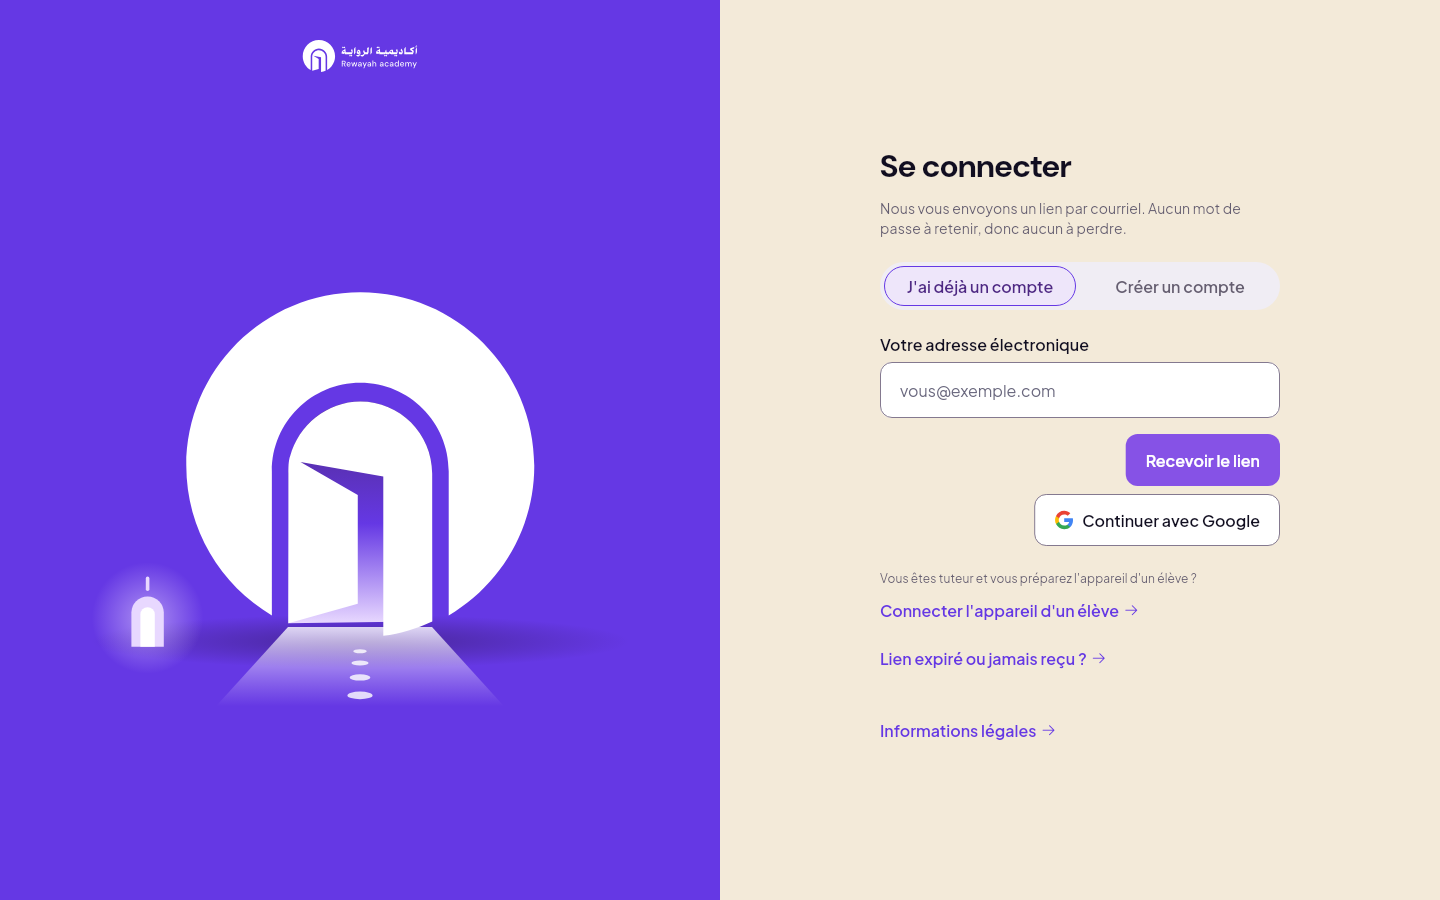
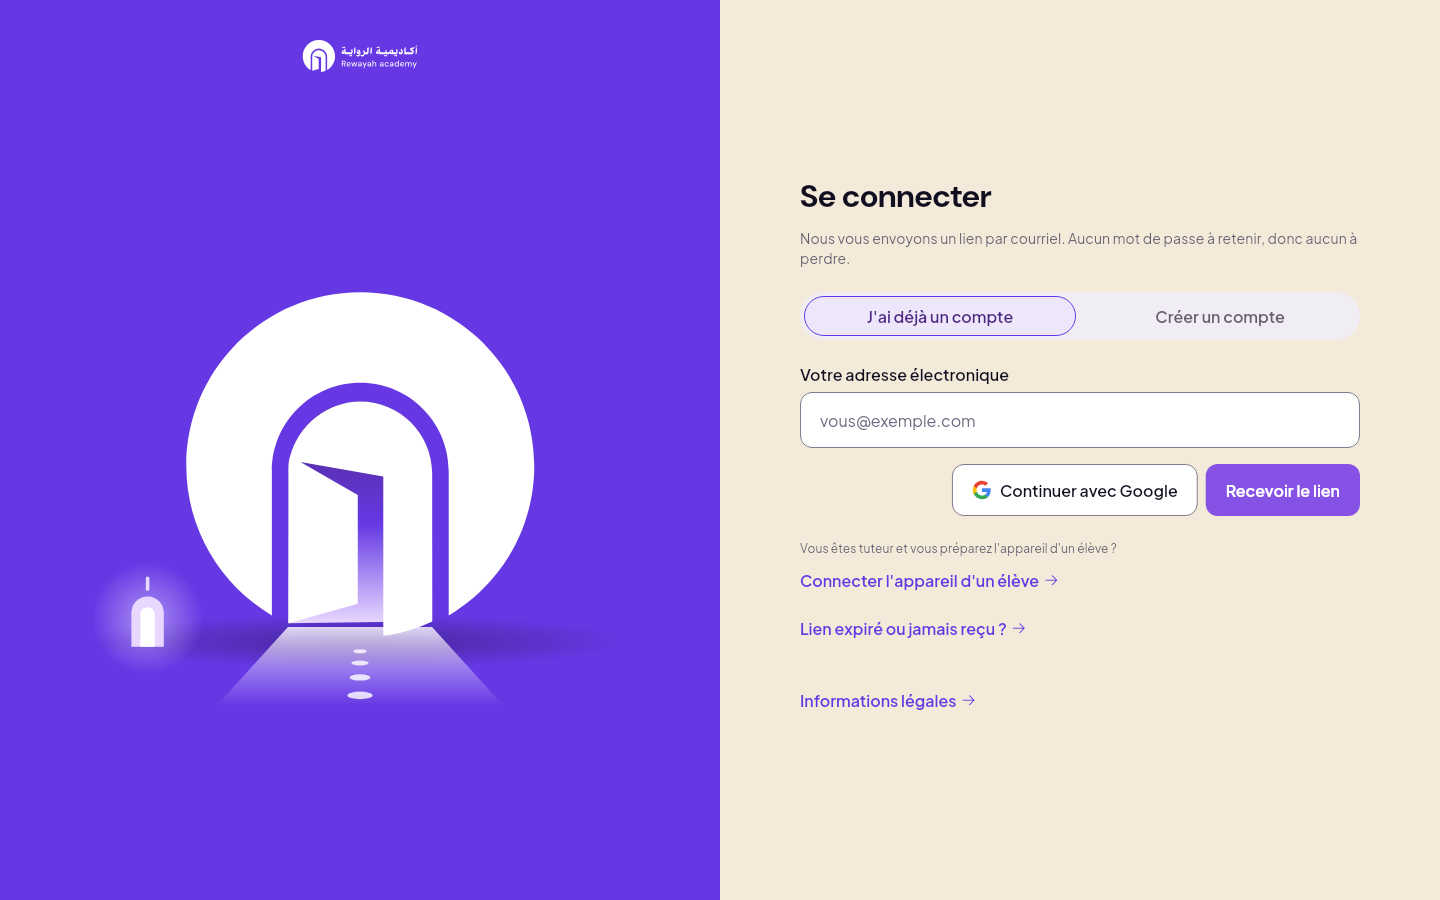
Entrée PR 1 : les deux actions sur une rangée au bord de fin (bureau)
Correctif du directeur (capture 1440 refusée). Sur ordinateur, « Continuer
avec Google » puis « Recevoir le lien » sur une rangée au bord de fin,
8 points entre eux, par RangeeActions (option pileePleineLargeur) ; largeur
de lecture 560 pour que la rangée tienne dans les deux modes ; à texte
agrandi, pile pleine largeur. Téléphone inchangé. Capture 1440 refaite.

Claude-Session: https://claude.ai/code/session_011CALX9teGtqrquq7vN8ZpH

Changed region(s): [[0.5312, 0.1556, 0.9688, 0.7467], [0.5625, 0.7778, 0.7188, 0.84]]

diff --git a/test/features/connexion/entree_rendu_test.dart b/test/features/connexion/entree_rendu_test.dart
@@ -71,7 +71,7 @@ void main() {
       const Size(320, 640),
       const Size(1440, 900),
     ]) {
-      for (final double texte in <double>[1, 2]) {
+      for (final double texte in <double>[1, 1.5, 2]) {
         for (final ThemeMode theme in <ThemeMode>[
           ThemeMode.light,
           ThemeMode.dark,
@@ -136,6 +136,27 @@ void main() {
                 } else {
                   expect(bouton.left, moreOrLessEquals(champ2.left));
                 }
+                // Connexion : Google puis le lien sur une rangee au bord de
+                // fin ; si elle ne tient pas (police de test tres large,
+                // texte agrandi), empilees pleine largeur.
+                final Finder google = find.widgetWithText(
+                  ActionPrincipale,
+                  t.connexion.avecGoogle,
+                );
+                if (google.evaluate().isNotEmpty) {
+                  final Rect g = tester.getRect(google);
+                  if (g.top == bouton.top) {
+                    expect(g.height, bouton.height);
+                    if (sens == TextDirection.ltr) {
+                      expect(bouton.left - g.right, moreOrLessEquals(8));
+                    } else {
+                      expect(g.left - bouton.right, moreOrLessEquals(8));
+                    }
+                  } else {
+                    expect(g.width, moreOrLessEquals(champ2.width));
+                    expect(bouton.width, moreOrLessEquals(champ2.width));
+                  }
+                }
               } else {
                 // Telephone : le logo est centre, le bouton pleine largeur.
                 final Rect logoRect = tester.getRect(
@@ -181,6 +202,54 @@ void main() {
       const Duration(seconds: 2),
     );
     expect(tester.hasRunningAnimations, isFalse);
+  });
+
+  group('RangeeActions sur ordinateur (correctif du 25/10/2026)', () {
+    Widget rangee(double largeur, TextDirection sens) => Directionality(
+      textDirection: sens,
+      child: Center(
+        child: SizedBox(
+          width: largeur,
+          child: const RangeeActions(
+            pileePleineLargeur: true,
+            children: <Widget>[
+              SizedBox(key: ValueKey<String>('g'), width: 150, height: 52),
+              SizedBox(key: ValueKey<String>('p'), width: 120, height: 52),
+            ],
+          ),
+        ),
+      ),
+    );
+
+    for (final TextDirection sens in TextDirection.values) {
+      testWidgets('une rangee au bord de fin quand elle tient (${sens.name})', (
+        WidgetTester tester,
+      ) async {
+        await tester.pumpWidget(rangee(400, sens));
+        final Rect g = tester.getRect(find.byKey(const ValueKey<String>('g')));
+        final Rect p = tester.getRect(find.byKey(const ValueKey<String>('p')));
+        final Rect cadre = tester.getRect(find.byType(RangeeActions));
+        expect(g.top, p.top);
+        if (sens == TextDirection.ltr) {
+          expect(p.right, cadre.right);
+          expect(p.left - g.right, 8);
+        } else {
+          expect(p.left, cadre.left);
+          expect(g.left - p.right, 8);
+        }
+      });
+    }
+
+    testWidgets('empilee pleine largeur quand elle ne tient pas', (
+      WidgetTester tester,
+    ) async {
+      await tester.pumpWidget(rangee(260, TextDirection.ltr));
+      final Rect g = tester.getRect(find.byKey(const ValueKey<String>('g')));
+      final Rect p = tester.getRect(find.byKey(const ValueKey<String>('p')));
+      expect(g.width, 260);
+      expect(p.width, 260);
+      expect(p.top - g.bottom, 8);
+    });
   });
 
   group('contraste mesure', () {

diff --git a/lib/features/connexion/coquille_entree.dart b/lib/features/connexion/coquille_entree.dart
@@ -8,6 +8,7 @@ import '../../core/theme/app_mouvement.dart';
 import '../../core/theme/app_palette.dart';
 import '../../core/theme/app_spacing.dart';
 import '../../core/theme/app_theme.dart';
+import '../../core/widgets/action_principale.dart';
 import '../../core/widgets/brand_logo.dart';
 import '../../core/widgets/entete_page.dart';
 import '../../core/widgets/lien_fleche.dart';
@@ -16,7 +17,11 @@ import '../../core/widgets/porte_lumiere.dart';
 
 /// La largeur de lecture du formulaire sur ordinateur
 /// (`docs/current/PARCOURS-ENTREE-2026-10-25.md`, §3 C).
-const double largeurFormulaireEntree = AppPage.largeurEtatVide;
+///
+/// 560 (decision du 25/10/2026, correctif de la PR 1) : « Continuer avec
+/// Google » et « Recevoir le lien d'inscription » tiennent sur une rangee
+/// (508 mesures avec les polices du depot) ; 400 les empilait.
+const double largeurFormulaireEntree = AppPage.largeurDialogue;
 
 /// La largeur de la scene dans le volet de marque sur ordinateur (560 sur le
 /// site, ramene a l'echelle d'espacement).
@@ -431,4 +436,53 @@ class LienEntree extends StatelessWidget {
       onPress: onPress,
     ),
   );
+}
+
+/// Les deux actions d'un formulaire d'entree (correctif du directeur du
+/// 25/10/2026 sur la PR 1, contrat B) :
+///
+/// - **ordinateur** : [RangeeActions], une seule rangee au bord de fin du
+///   formulaire, l'action secondaire puis la principale dans le sens de
+///   lecture (« Continuer avec Google » puis « Recevoir le lien » ; miroir en
+///   arabe), 8 points entre elles, chacune a la largeur de son contenu ; si
+///   la rangee ne tient pas (texte agrandi), elle s'empile pleine largeur ;
+/// - **telephone** : la principale puis la secondaire, empilees, pleine
+///   largeur.
+///
+/// Les deux boutons se construisent avec `pleineLargeur: !bureau`.
+class ActionsEntree extends StatelessWidget {
+  /// Pose [principale] et, s'il y en a une, [secondaire].
+  const ActionsEntree({
+    required this.bureau,
+    required this.principale,
+    this.secondaire,
+    super.key,
+  });
+
+  /// Vrai dans le volet d'ordinateur.
+  final bool bureau;
+
+  /// L'action principale (le seul bouton plein).
+  final Widget principale;
+
+  /// L'action secondaire, s'il y en a une.
+  final Widget? secondaire;
+
+  @override
+  Widget build(BuildContext context) {
+    final Widget? autre = secondaire;
+    if (autre == null) {
+      return BoutonEntree(bureau: bureau, child: principale);
+    }
+    if (!bureau) {
+      return Column(
+        crossAxisAlignment: CrossAxisAlignment.stretch,
+        children: <Widget>[principale, Ecart.vSm, autre],
+      );
+    }
+    return RangeeActions(
+      pileePleineLargeur: true,
+      children: <Widget>[autre, principale],
+    );
+  }
 }

diff --git a/lib/core/widgets/action_principale.dart b/lib/core/widgets/action_principale.dart
@@ -484,15 +484,27 @@ class _Peinture {
 /// rangee, jamais recopiee. Elle vit ici, avec les actions qu'elle range.
 class RangeeActions extends MultiChildRenderObjectWidget {
   /// Cree la rangee ; [children] dans l'ordre de lecture du contrat B.
-  const RangeeActions({required super.children, super.key});
+  const RangeeActions({
+    required super.children,
+    this.pileePleineLargeur = false,
+    super.key,
+  });
+
+  /// Vrai pour qu'une rangee qui ne tient pas s'empile **pleine largeur**
+  /// (toute la place offerte) au lieu de la largeur du plus long libelle :
+  /// le formulaire d'entree sur ordinateur a texte agrandi, qui retrouve
+  /// alors la colonne du telephone (directeur, 25/10/2026). Faux par defaut.
+  final bool pileePleineLargeur;
 
   @override
   RenderObject createRenderObject(BuildContext context) =>
-      _RenduRangeeActions(Directionality.of(context));
+      _RenduRangeeActions(Directionality.of(context), pileePleineLargeur);
 
   @override
   void updateRenderObject(BuildContext context, RenderObject renderObject) {
-    (renderObject as _RenduRangeeActions).sens = Directionality.of(context);
+    (renderObject as _RenduRangeeActions)
+      ..sens = Directionality.of(context)
+      ..pileePleineLargeur = pileePleineLargeur;
   }
 }
 
@@ -502,9 +514,16 @@ class _RenduRangeeActions extends RenderBox
     with
         ContainerRenderObjectMixin<RenderBox, _DonneesRangee>,
         RenderBoxContainerDefaultsMixin<RenderBox, _DonneesRangee> {
-  _RenduRangeeActions(this._sens);
+  _RenduRangeeActions(this._sens, this._pileePleineLargeur);
 
   static const double _ecart = AppSpacing.sm;
+
+  bool _pileePleineLargeur;
+  set pileePleineLargeur(bool valeur) {
+    if (valeur == _pileePleineLargeur) return;
+    _pileePleineLargeur = valeur;
+    markNeedsLayout();
+  }
 
   TextDirection _sens;
   set sens(TextDirection valeur) {
@@ -576,7 +595,11 @@ class _RenduRangeeActions extends RenderBox
     final List<double> largeurs = _largeurs(max);
     final double ligne = _somme(largeurs);
     final bool enLigne = ligne <= max;
-    final double groupe = enLigne ? ligne : largeurs.fold<double>(0, math.max);
+    final double groupe = enLigne
+        ? ligne
+        : _pileePleineLargeur && max.isFinite
+        ? max
+        : largeurs.fold<double>(0, math.max);
     final double largeur = max.isFinite ? max : groupe;
     // Le bord de fin : a droite en LTR, a gauche en RTL.
     final bool rtl = _sens == TextDirection.rtl;

diff --git a/lib/features/connexion/connexion_page.dart b/lib/features/connexion/connexion_page.dart
@@ -477,9 +477,13 @@ class _Saisie extends StatelessWidget {
           ),
         ],
         Ecart.vLg,
-        BoutonEntree(
+        // Une rangee au bord de fin sur ordinateur, Google puis le lien ;
+        // empiles pleine largeur sur telephone (correctif du 25/10/2026). Le
+        // parcours de demonstration n'ouvre pas Google : un chemin reel vers
+        // un vrai compte.
+        ActionsEntree(
           bureau: bureau,
-          child: ActionPrincipale(
+          principale: ActionPrincipale(
             libelle: !versLien
                 ? t.connexion.entrerDemo
                 : creation
@@ -492,25 +496,20 @@ class _Saisie extends StatelessWidget {
             affirmee: true,
             pleineLargeur: !bureau,
           ),
+          secondaire: demo
+              ? null
+              : ActionPrincipale(
+                  libelle: t.connexion.avecGoogle,
+                  onPress: onGoogle,
+                  niveau: NiveauAction.secondaire,
+                  pleineLargeur: !bureau,
+                  // Une marque tierce se montre, elle ne se decrit pas : le
+                  // logo est ce que l'usager cherche des yeux avant de lire
+                  // le libelle.
+                  prefixe: const LogoGoogle(),
+                ),
         ),
-
-        // Le parcours de demonstration s'arrete la : il n'ouvre ni Google ni
-        // l'entree eleve, qui sont des chemins reels vers un vrai compte.
         if (!demo) ...<Widget>[
-          Ecart.vSm,
-          BoutonEntree(
-            bureau: bureau,
-            child: ActionPrincipale(
-              libelle: t.connexion.avecGoogle,
-              onPress: onGoogle,
-              niveau: NiveauAction.secondaire,
-              pleineLargeur: !bureau,
-              // Une marque tierce se montre, elle ne se decrit pas : le logo
-              // est ce que l'usager cherche des yeux avant de lire le libelle.
-              prefixe: const LogoGoogle(),
-            ),
-          ),
-
           // L4 : en creation, les sorties reservees aux comptes existants
           // s'effacent (appareil d'un eleve, lien expire).
           if (!creation) ...<Widget>[

diff --git a/docs/current/maquettes/connexion/UX_REVIEW_ENTREE.md b/docs/current/maquettes/connexion/UX_REVIEW_ENTREE.md
@@ -16,6 +16,7 @@ Rien n'est prouvé en production ; « fait » attend la vérification du directe
 | L'illustration ne se retourne pas en arabe | README du logo (« jamais retourné ») | Un logo et son dessin gardent leur orientation | conforme | `PorteLumiere` pose sa scène sous `Directionality` de gauche à droite ; test « jamais retournée en arabe » |
 | Un seul bouton plein, à la place du bas du formulaire | Material 3, hiérarchie des boutons (un « filled » par vue) ; K-56 ; contrat B | Une seule action dominante ; Google en bouton à contour ; sorties en liens | conforme, vérifiée au rendu | `verifierUnSeulBoutonPlein` à 320 et 1440, ×1 et ×2, clair et sombre, fr et ar ; « Connecter l'appareil d'un élève », « Lien expiré ou jamais reçu ? », « Informations légales » passent de bouton texte à `LienFleche` |
 | Bouton pleine largeur sur téléphone, largeur du contenu sur ordinateur, au bord de fin | Contrat B (« sur desktop, un bouton n'est pas étiré pleine largeur sans justification », action qui poursuit au bord *trailing*) ; Fitts | Sur téléphone, la cible pleine largeur est la plus proche du pouce ; sur ordinateur, le bouton suit son libellé | conforme | `BoutonEntree` : `Align(centerEnd)` sur ordinateur ; test : largeur du bouton < largeur du champ à 1440, égale à 320 |
+| Sur ordinateur, « Continuer avec Google » puis « Recevoir le lien » sur une rangée au bord de fin, 8 points entre eux (correctif du directeur du 25/10/2026, capture 1440 refusée : boutons éparpillés) | Contrat B (action group au bord *trailing*, secondaire avant principale) ; Gestalt, proximité | Les actions d'un même formulaire forment un groupe aligné sur la ligne de fin du champ | ajustée | `RangeeActions` (composant partagé, option `pileePleineLargeur`) ; largeur de lecture portée de 400 à 560 (`AppPage.largeurDialogue`) : la rangée mesure 408 en connexion et 508 en création avec les polices du dépôt ; à texte ×1,5 et ×2 elle s'empile pleine largeur ; tests `entree_rendu_test` et tests du composant |
 | Champ unique, étiquette au-dessus, erreur sous le champ | Baymard, formulaires (étiquette hors du champ, message d'erreur adjacent au champ fautif) ; WCAG 3.3.1 | L'erreur se lit à côté de ce qu'elle concerne, en texte | conforme | `ChampEntree` : étiquette au-dessus, `errorText` sous le champ, encre de la surface (blanche sur le violet, `inkAlert` sur le parchemin) |
 | Champ blanc à encre sombre sur le violet | WCAG 1.4.11 (composants 3:1) ; 1.4.3 (texte 4,5:1) | Le champ se détache de son fond, la saisie se lit | conforme, mesurée | Champ sur le thème clair, fond de carte `#FFFFFF` ; filet de focus `inkAccent` de 2 points sur le champ blanc |
 | Texte blanc sur `#6538E4` | WCAG 2.2, 1.4.3 | 4,5:1 au moins | conforme, mesurée : 6,5:1 | Test `surface_marque_test` et `entree_rendu_test` (contraste mesuré) |
